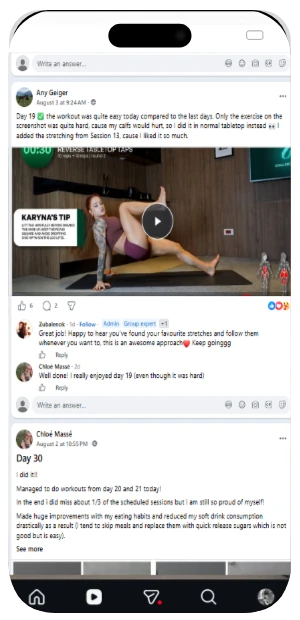
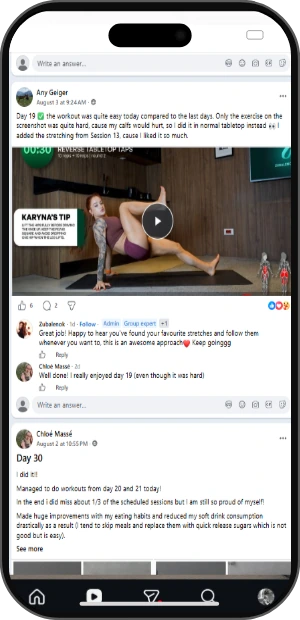
Fix phone frames, framed review slides and hero price centering

diff --git a/index.html b/index.html
@@ -249,18 +249,18 @@
 
     <div class="swiper reviews__swiper">
       <div class="swiper-wrapper">
-        <div class="swiper-slide review-slide" style="--w:30.4rem"><img src="./images/reviews/review-01.webp" loading="lazy" alt="Student review 1"></div>
+        <div class="swiper-slide review-slide review-slide--framed" style="--w:30.4rem"><img src="./images/reviews/review-01.webp" loading="lazy" alt="Student review 1"></div>
         <div class="swiper-slide review-slide" style="--w:29.5rem"><img src="./images/reviews/review-02.webp" loading="lazy" alt="Student review 2"></div>
-        <div class="swiper-slide review-slide" style="--w:26.2rem"><img src="./images/reviews/review-03.webp" loading="lazy" alt="Student review 3"></div>
+        <div class="swiper-slide review-slide review-slide--framed" style="--w:26.2rem"><img src="./images/reviews/review-03.webp" loading="lazy" alt="Student review 3"></div>
         <div class="swiper-slide review-slide" style="--w:29.5rem"><img src="./images/reviews/review-04.webp" loading="lazy" alt="Student review 4"></div>
         <div class="swiper-slide review-slide" style="--w:29.5rem"><img src="./images/reviews/review-05.webp" loading="lazy" alt="Student review 5"></div>
         <div class="swiper-slide review-slide" data-video="https://itden-cdn.b-cdn.net/stretching/vd-3.mp4" style="--w:29.5rem"><img src="./images/reviews/review-06.webp" loading="lazy" alt="Student review 6"></div>
         <div class="swiper-slide review-slide" style="--w:29.5rem"><img src="./images/reviews/review-07.webp" loading="lazy" alt="Student review 7"></div>
         <div class="swiper-slide review-slide" style="--w:29.5rem"><img src="./images/reviews/review-08.webp" loading="lazy" alt="Student review 8"></div>
-        <div class="swiper-slide review-slide" style="--w:30.5rem"><img src="./images/reviews/review-09.webp" loading="lazy" alt="Student review 9"></div>
+        <div class="swiper-slide review-slide review-slide--framed" style="--w:30.5rem"><img src="./images/reviews/review-09.webp" loading="lazy" alt="Student review 9"></div>
         <div class="swiper-slide review-slide" style="--w:29.5rem"><img src="./images/reviews/review-10.webp" loading="lazy" alt="Student review 10"></div>
         <div class="swiper-slide review-slide" style="--w:29.5rem"><img src="./images/reviews/review-11.webp" loading="lazy" alt="Student review 11"></div>
-        <div class="swiper-slide review-slide" style="--w:30.4rem"><img src="./images/reviews/review-12.webp" loading="lazy" alt="Student review 12"></div>
+        <div class="swiper-slide review-slide review-slide--framed" style="--w:30.4rem"><img src="./images/reviews/review-12.webp" loading="lazy" alt="Student review 12"></div>
         <div class="swiper-slide review-slide" data-video="https://itden-cdn.b-cdn.net/stretching/vd-4.mp4" style="--w:29.5rem"><img src="./images/reviews/review-13.webp" loading="lazy" alt="Student review 13"></div>
         <div class="swiper-slide review-slide" style="--w:29.5rem"><img src="./images/reviews/review-14.webp" loading="lazy" alt="Student review 14"></div>
         <div class="swiper-slide review-slide" style="--w:29.5rem"><img src="./images/reviews/review-15.webp" loading="lazy" alt="Student review 15"></div>

diff --git a/css/main.css b/css/main.css
@@ -254,8 +254,10 @@ h1, h2, h3, h4, span {
 
 .hero__price-old {
   position: absolute;
-  left: 4.23rem;
+  left: 0;
+  right: 0;
   top: 8.28rem;
+  text-align: center;
   font-family: "Anton", sans-serif;
   font-size: 3.4rem;
   line-height: 3.4rem;
@@ -264,13 +266,12 @@ h1, h2, h3, h4, span {
 
 .hero__price-strike {
   position: absolute;
-  left: 3.06rem;
-  top: 10.63rem;
+  left: 50%;
+  top: 9.9rem;
   width: 11.4rem;
   height: 0.2rem;
   background: #ff0000;
-  transform: rotate(-11.23deg);
-  transform-origin: left center;
+  transform: translateX(-50%) rotate(-11.23deg);
 }
 
 .hero__photo {
@@ -1013,6 +1014,16 @@ h1, h2, h3, h4, span {
   overflow: hidden;
   cursor: pointer;
   box-shadow: 0 0.2rem 1.2rem rgba(0, 0, 0, 0.18);
+}
+
+/* Скріни зі своєю сірою рамкою: не обрізаємо кути і не додаємо тінь */
+.review-slide--framed {
+  border-radius: 0;
+  box-shadow: none;
+}
+
+.review-slide--framed img {
+  object-fit: contain;
 }
 
 .review-slide img {
